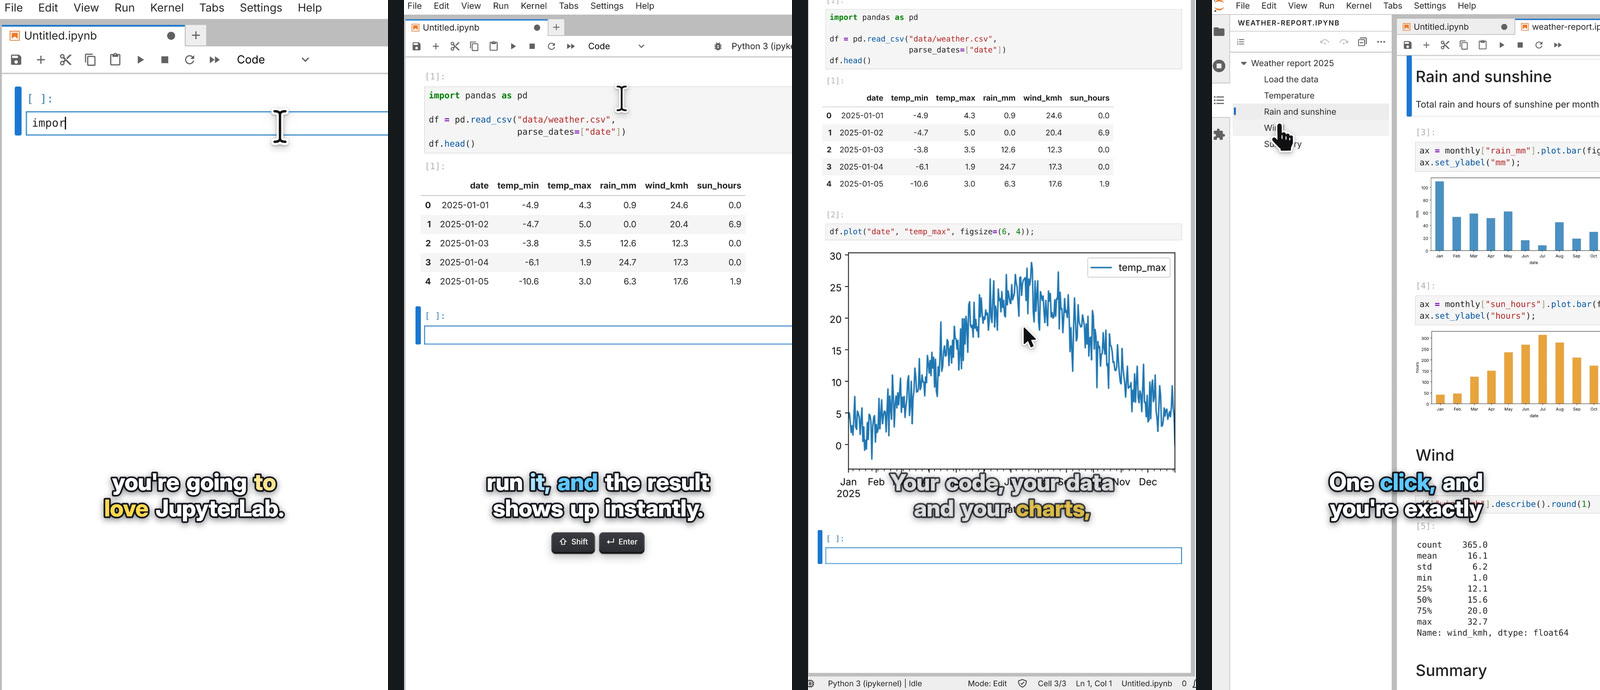
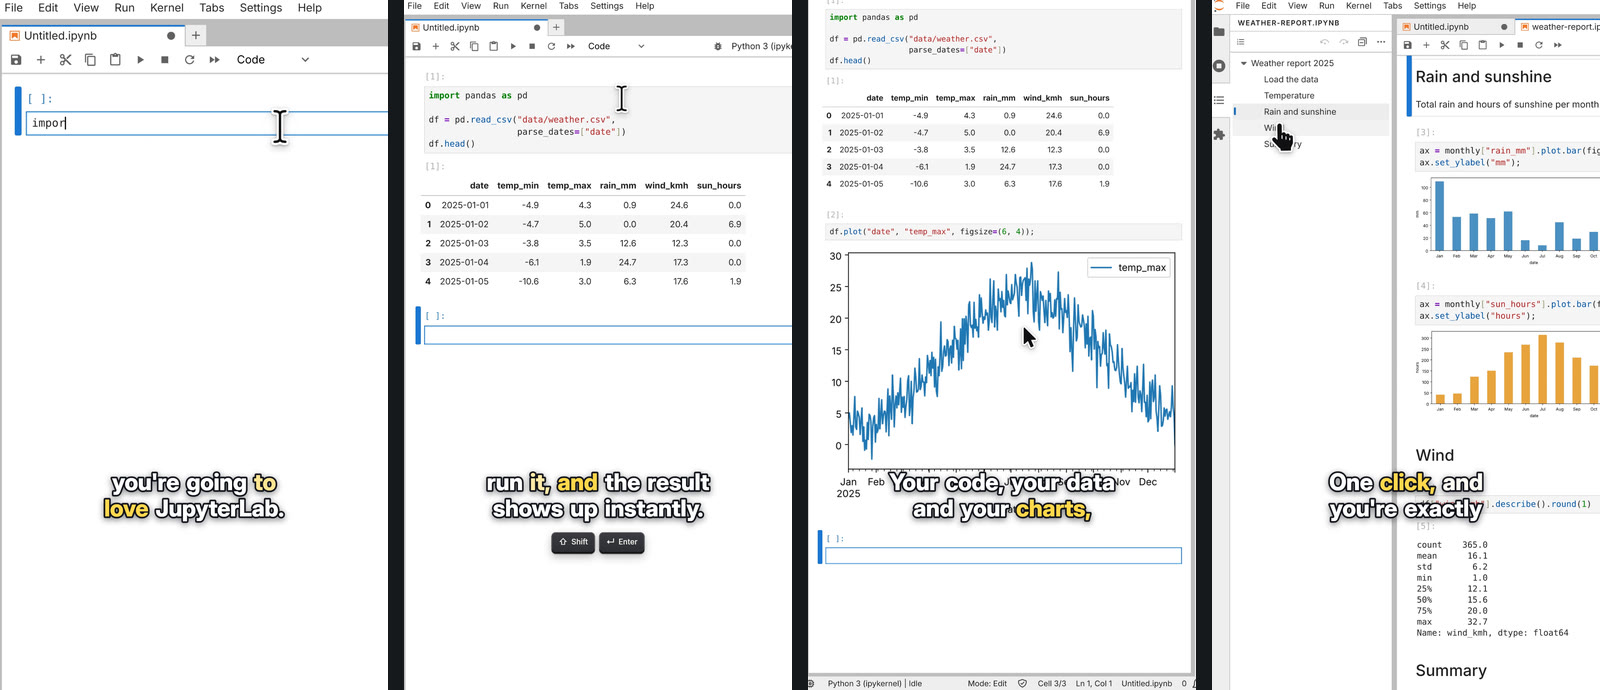
Use one highlight color for subtitles, with an option for each caption

Changed region(s): [[0.5312, 0.6696, 0.7188, 0.7609], [0.8438, 0.6696, 0.9062, 0.7304], [0.3438, 0.6696, 0.375, 0.7304]]

diff --git a/test/render/subtitles.test.ts b/test/render/subtitles.test.ts
@@ -156,10 +156,6 @@ test('a new caption replaces the page on screen and the pages that did not start
   );
   assert.ok(cues[0].end < 1100);
   assert.equal(cues[1].start, 1100);
-  assert.deepEqual(
-    cues.map((cue) => cue.caption),
-    [0, 1],
-  );
 });
 
 test('a caption that has only marks gives no page', () => {
@@ -204,12 +200,19 @@ test('the subtitles style has no caption band, and the window does not move', ()
   );
 });
 
-test('the highlight is one color or a list, and each caption takes the next color', () => {
-  const colors = (highlight?: string | string[]) =>
+test('the highlight is one color, and a caption can have its own color', () => {
+  const color = (highlight?: string) =>
     buildScene(session, { captions: { style: 'subtitles', highlight } }).options.captions.highlight;
-  assert.equal(colors().length, 4);
-  assert.deepEqual(colors('#ff0000'), ['#ff0000']);
-  assert.deepEqual(colors(['#ff0000', '#00ff00']), ['#ff0000', '#00ff00']);
+  assert.equal(color(), '#ffd84a');
+  assert.equal(color('#ff0000'), '#ff0000');
+  const cues = planSubtitles(
+    [caption(0, 2000, 'a'), { ...caption(3000, 2000, 'b'), highlight: '#00ff00' }],
+    () => [page('word')],
+  );
+  assert.deepEqual(
+    cues.map((cue) => cue.highlight),
+    [undefined, { r: 0, g: 255, b: 0, a: 1 }],
+  );
 });
 
 test('a zoom puts its focus above the subtitles', () => {
@@ -275,6 +278,7 @@ async function frame(source: string, time: number) {
 
 const magenta = (r: number, g: number, b: number) => r > 230 && g < 60 && b > 230;
 const white = (r: number, g: number, b: number) => r > 245 && g > 245 && b > 245;
+const green = (r: number, g: number, b: number) => r < 60 && g > 230 && b < 60;
 
 test('a subtitle shows all its words at once, and the color goes from word to word', async () => {
   const text = (t: number) => ({
@@ -312,6 +316,11 @@ test('a subtitle shows all its words at once, and the color goes from word to wo
   assert.ok(current.magenta > said.magenta + 100, 'the current word has the color too');
   assert.ok(current.white > plain.white + 100, 'the words after it show at once, in white');
   assert.ok(current.white < said.white - 100);
+
+  const own = await variant('own', [{ ...text(100), highlight: '#00ff00' }], options);
+  const pixels = await frame(own, time);
+  assert.equal(pixels(zone.top, zone.bottom, magenta), 0);
+  assert.ok(pixels(zone.top, zone.bottom, green) > 150, 'the caption has its own color');
 });
 
 test('keycaps sit below the subtitles, and their size is an option', async () => {

diff --git a/src/render/subtitles.ts b/src/render/subtitles.ts
@@ -1,7 +1,7 @@
 import { createCanvas, type SKRSContext2D } from '@napi-rs/canvas';
 import type { CaptionEvent, Size } from '../types.ts';
 import { markedWord, parseCaption, splitCaption } from './captions.ts';
-import { mixOklab, rgba, type Rgba } from './color.ts';
+import { mixOklab, parseColor, rgba, type Rgba } from './color.ts';
 import { clamp, smoothstep } from './easing.ts';
 import type { TimedEvent } from './timeline.ts';
 import { VOICE_HOLD, type VoiceCue } from './voice.ts';
@@ -64,9 +64,9 @@ export interface SubtitleWord {
  */
 export interface SubtitleCue {
   /**
-   * Index of the caption of this page, which selects its highlight color.
+   * Highlight color of the caption of this page, when it has its own.
    */
-  caption: number;
+  highlight?: Rgba;
   start: number;
   end: number;
   fontSize: number;
@@ -90,7 +90,7 @@ export interface SubtitleStyle {
    */
   x: number;
   y: number;
-  highlights: Rgba[];
+  highlight: Rgba;
 }
 
 /**
@@ -259,9 +259,10 @@ export function planSubtitles(
       // A voice does not wait: only the pages without a voice come later.
       if (!said) late = Math.max(0, last.end + EXIT - planned[0].start);
     }
+    const highlight = (event.highlight && parseColor(event.highlight)) || undefined;
     planned.forEach((page, i) => {
       cues.push({
-        caption,
+        highlight,
         start: page.start + late,
         end: page.end + late,
         fontSize: laid[i].fontSize,
@@ -364,7 +365,7 @@ export function drawSubtitle(
   const enter = 1 - (1 - clamp((t - cue.start) / ENTER, 0, 1)) ** 3;
   const exit = smoothstep(cue.end, cue.end + EXIT, t);
   const scale = (START_SCALE + (1 - START_SCALE) * enter) * (1 + (EXIT_SCALE - 1) * exit);
-  const highlight = style.highlights[cue.caption % style.highlights.length];
+  const highlight = cue.highlight ?? style.highlight;
   const colors = cue.words.map((word) => {
     const current =
       smoothstep(0, LIGHT_IN, t - word.at) * (1 - smoothstep(0, LIGHT_OUT, t - word.until));

diff --git a/src/render/defaults.ts b/src/render/defaults.ts
@@ -75,7 +75,7 @@ export interface ResolvedOptions {
     position: 'bottom' | 'top';
     fontSize: number;
     fontFamily: string;
-    highlight: string[];
+    highlight: string;
   };
   voice: { enabled: boolean; voiceId: string; model: string; speed: number };
   spotlight: { enabled: boolean };
@@ -104,8 +104,6 @@ const DEFAULT_AUTO_ZOOM: ResolvedAutoZoom = { scale: 1.8, hold: 1500, mergeWindo
  * Font size of each caption style, for a 1080-pixel output.
  */
 const CAPTION_FONT_SIZE = { line: 40, subtitles: 64 };
-
-const DEFAULT_HIGHLIGHT = ['#ffd84a', '#5fe08a', '#5cc8ff', '#ff8fb8'];
 
 const DEFAULTS = {
   size: { width: 1920, height: 1080 },
@@ -151,7 +149,7 @@ const DEFAULTS = {
     position: 'bottom',
     fontSize: undefined as number | undefined,
     fontFamily: 'Inter Display',
-    highlight: DEFAULT_HIGHLIGHT as string | string[],
+    highlight: '#ffd84a',
   },
   voice: {
     enabled: false,
@@ -266,7 +264,6 @@ export function resolveOptions(
   if (captions.style !== 'line' && captions.style !== 'subtitles') {
     throw new Error(`Unknown captions.style "${captions.style}". Use one of: line, subtitles`);
   }
-  const highlight = [captions.highlight].flat().filter(Boolean);
   const fps = Math.min(240, Math.max(1, merged.fps));
   const auto = merged.zoom.auto;
   const shadow = merged.frame.shadow;
@@ -293,7 +290,6 @@ export function resolveOptions(
     captions: {
       ...(captions as ResolvedOptions['captions']),
       fontSize: captions.fontSize ?? CAPTION_FONT_SIZE[captions.style],
-      highlight: highlight.length ? highlight : DEFAULT_HIGHLIGHT,
     },
     voice: merged.voice,
     spotlight: merged.spotlight,

diff --git a/src/types.ts b/src/types.ts
@@ -154,13 +154,14 @@ export interface SpeedEvent {
 
 /**
  * A text caption shown from `t` for `duration` milliseconds. `**` in the text starts and
- * ends the emphasis.
+ * ends the emphasis. `highlight` is the highlight color of this caption as subtitles.
  */
 export interface CaptionEvent {
   type: 'caption';
   t: number;
   duration: number;
   text: string;
+  highlight?: string;
 }
 
 /**
@@ -491,6 +492,11 @@ export interface CaptionOptions {
    * Waits for the caption to end. Default: false.
    */
   wait?: boolean;
+  /**
+   * Highlight color of this caption with the `subtitles` style. Default: the
+   * `captions.highlight` render option.
+   */
+  highlight?: string;
 }
 
 export interface GotoOptions {
@@ -771,10 +777,10 @@ export interface CaptionRenderOptions {
   fontSize?: number;
   fontFamily?: string;
   /**
-   * Highlight color of the subtitles. With several colors, each caption takes the next
-   * one. Default: yellow, green, blue and pink.
+   * Highlight color of the subtitles. The `highlight` option of `cast.caption` gives one
+   * caption a different color. Default: `#ffd84a` (yellow).
    */
-  highlight?: string | string[];
+  highlight?: string;
 }
 
 export interface VoiceOptions {

diff --git a/test/record/record.test.ts b/test/record/record.test.ts
@@ -143,7 +143,7 @@ describe('record() end to end', () => {
         await cast.hover('#resize', { hold: 200 });
         await cast.cut(() => cast.wait(500));
         await cast.speed(2, () => cast.moveTo({ x: 100, y: 600 }));
-        await cast.caption('Done', { duration: 800 });
+        await cast.caption('Done', { duration: 800, highlight: '#00ff00' });
         cast.marker('end');
         page.value = await cast.page.locator('#name').inputValue();
         page.log = await cast.page.evaluate(() => (window as unknown as { log: string[] }).log);
@@ -290,6 +290,7 @@ describe('record() end to end', () => {
     assert.equal(speed.rate, 2);
     assert.ok(speed.end > speed.t);
     assert.equal(ofType(session, 'caption')[0].text, 'Done');
+    assert.equal(ofType(session, 'caption')[0].highlight, '#00ff00');
     assert.equal(ofType(session, 'marker')[0].label, 'end');
   });
 

diff --git a/src/record/cast.ts b/src/record/cast.ts
@@ -468,7 +468,14 @@ export class Director implements Cast {
     return this.step(`caption(${describeText(text)})`, async () => {
       const duration =
         options.duration ?? CAST_DEFAULTS.captionBase + CAST_DEFAULTS.captionPerChar * text.length;
-      this.push({ type: 'caption', t: this.timeline.now(), duration, text });
+      const { highlight } = options;
+      this.push({
+        type: 'caption',
+        t: this.timeline.now(),
+        duration,
+        text,
+        ...(highlight ? { highlight } : {}),
+      });
       if (options.wait) {
         await this.pace.sleep(duration);
       }

diff --git a/src/render/compositor.ts b/src/render/compositor.ts
@@ -339,9 +339,7 @@ export class Compositor {
       family: options.captions.fontFamily,
       x: zone.x,
       y: zone.y,
-      highlights: options.captions.highlight.map(
-        (color) => parseColor(color) ?? { r: 255, g: 216, b: 74, a: 1 },
-      ),
+      highlight: parseColor(options.captions.highlight) ?? { r: 255, g: 216, b: 74, a: 1 },
     };
   }
 

diff --git a/skills/autokast/SKILL.md b/skills/autokast/SKILL.md
@@ -108,7 +108,7 @@ elements fails, so narrow it.
 | `cast.cut(fn)`                                                      | Run `fn` and remove that time from the video.                                                                                                                                                                                                                   |
 | `cast.speed(rate, fn)`                                              | Run `fn` and play that time `rate` times faster.                                                                                                                                                                                                                |
 | `cast.spotlight(target, { duration, padding, radius })`             | Dims the page around the target for `duration` (default 2 s), to point at one element without a zoom. `padding` and `radius` shape the lit area; `wait: true` waits for the end.                                                                                |
-| `cast.caption(text, { duration })`                                  | Optional caption on the backdrop below the window. `**` around words gives them the emphasis. Use only when asked for text in the video. The `captions.style` render option shows the captions as animated subtitles (see "Vertical videos and subtitles").     |
+| `cast.caption(text, { duration, highlight })`                       | Optional caption on the backdrop below the window. `**` around words gives them the emphasis. Use only when asked for text in the video. The `captions.style` render option shows the captions as animated subtitles (see "Vertical videos and subtitles").     |
 | `cast.marker(label)`                                                | Name a point in time; shown by `inspect`.                                                                                                                                                                                                                       |
 
 `cast.page` is the Playwright page. Use it to wait and to read state
@@ -209,7 +209,8 @@ subtitles.
   Keep typed lines below 40 characters.
 - For subtitles, set `render: { captions: { style: 'subtitles' } }`. A caption then shows
   as large words over the video, all at once, and the highlight color goes from word to
-  word. The word between `**` has the color all the time. Write the captions as short
+  word. The word between `**` has the color all the time. The color is yellow: keep one
+  color for the full video, unless the user asks for more. Write the captions as short
   spoken sentences of about 30 characters, one for each action, and do not set `duration`:
   a subtitle goes away when it is said.
 - The subtitles are at about 72% of the height of a vertical video (82% of a wide one). A
@@ -305,7 +306,7 @@ next to `--preset`).
 | `zoom.enabled`, `captions.enabled`                    | `false` ignores the zooms or captions of the script. `spotlight.enabled` does the same for spotlights.                                                                                                           |
 | `captions.position`                                   | `bottom` (default) or `top`, for `cast.caption`.                                                                                                                                                                 |
 | `captions.style`                                      | `line` (default: one line on the backdrop) or `subtitles` (large animated words over the video).                                                                                                                 |
-| `captions.highlight`                                  | Subtitles: the highlight color, or a list of colors (each caption takes the next one).                                                                                                                           |
+| `captions.highlight`                                  | Subtitles: the highlight color (default yellow). The `highlight` option of `cast.caption` gives one caption a different color.                                                                                   |
 | `keystrokes.size`                                     | Size of the keycaps (default 1).                                                                                                                                                                                 |
 | `voice.enabled`                                       | `true` adds a voice that says the captions (also `--voice`). Needs `ELEVENLABS_API_KEY`.                                                                                                                         |
 | `voice.voiceId`, `voice.model`, `voice.speed`         | The ElevenLabs voice and model, and the speed of the speech (default 1).                                                                                                                                         |

diff --git a/README.md b/README.md
@@ -163,19 +163,21 @@ a wide window is small in a tall video, so its text is readable only in the zoom
 
 Captions can show as subtitles, as on short videos: large words over the video. A sentence
 shows at once, then a highlight color goes from word to word at the pace of speech. Words
-between `**` have the color all the time, and each caption takes the next color of the
-list.
+between `**` have the color all the time. The color is yellow by default:
+`captions.highlight` sets it for the video, and the `highlight` option of `cast.caption`
+sets it for one caption.
 
 ```ts
 export default defineScreencast({
   vertical: true,
   render: {
-    captions: { style: 'subtitles', highlight: ['#ffd84a', '#5fe08a'] },
+    captions: { style: 'subtitles', highlight: '#5fe08a' },
     keystrokes: { show: 'shortcuts', size: 1.5 },
   },
 
   async run(cast) {
     await cast.caption('Write code in a **notebook**');
+    await cast.caption('Then make a chart', { highlight: '#5cc8ff' });
   },
 });
 ```
